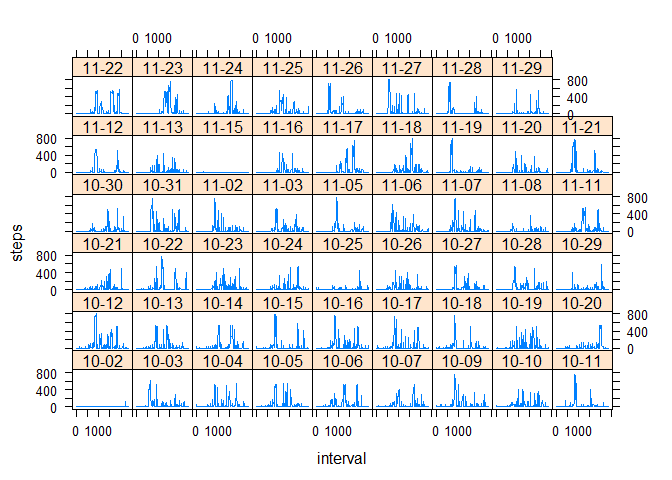
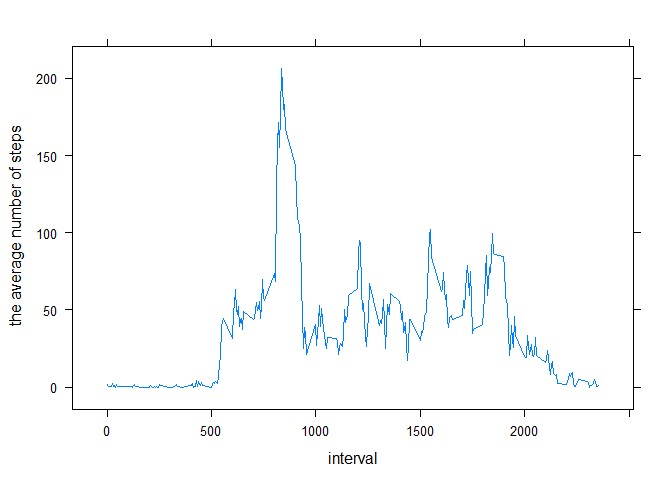
add the report of median_every_day, add the histogram of every day total steps, update the plot of the 5-minute interval average number of steps, add the report the set of missing data to zero

Changed region(s): [[0.0, 0.0625, 0.9688, 0.9062], [0.4688, 0.9375, 0.5625, 0.9688]]

diff --git a/PA1_template.html b/PA1_template.html
@@ -64,6 +64,9 @@ img {
 </div>
 
 
+<blockquote>
+<p>load the library and set the global option, echo=TRUE and figure path</p>
+</blockquote>
 <pre class="r"><code>library(knitr)
 library(dplyr)</code></pre>
 <pre><code>## 
@@ -82,27 +85,38 @@ opts_chunk$set(echo=TRUE,fig.path=&quot;.\\figure\\&quot;)</code></pre>
 <h2>Loading and preprocessing the data</h2>
 <pre class="r"><code>setwd(&quot;F:\\coursera\\Reproducible Research\\Peer_Assessment_1\\RepData_PeerAssessment1&quot;)
 zipfile &lt;- unzip(&quot;activity.zip&quot;)
-alldata &lt;- read.csv(zipfile)
-clean_data &lt;- na.omit(alldata)</code></pre>
+alldata &lt;- read.csv(zipfile)     ###read the data
+clean_data &lt;- na.omit(alldata)   ###omit the missing data</code></pre>
 </div>
 <div id="what-is-mean-total-number-of-steps-taken-per-day" class="section level2">
 <h2>What is mean total number of steps taken per day?</h2>
-<pre class="r"><code>date_group &lt;- group_by(clean_data,date)
+<pre class="r"><code>###group the data by date and sum the steps for every day
+date_group &lt;- group_by(clean_data,date)     
 out_date_group &lt;- summarize(date_group,sum(steps))
 mean_every_day &lt;- mean(out_date_group$`sum(steps)`)
-print(mean_every_day,type=&quot;html&quot;)</code></pre>
-<pre><code>## [1] 10766.19</code></pre>
+median_every_day &lt;- median(out_date_group$`sum(steps)`)
+histogram(out_date_group$`sum(steps)`,xlab=&quot;every day total steps&quot;)</code></pre>
[1 lines of base64/hex data omitted]
+<pre class="r"><code>#print(mean_every_day,type=&quot;html&quot;)
+sprintf(&quot;mean_every_day=%.1f,median_every_day=%.1f&quot;,mean_every_day,median_every_day)</code></pre>
+<pre><code>## [1] &quot;mean_every_day=10766.2,median_every_day=10765.0&quot;</code></pre>
 </div>
 <div id="what-is-the-average-daily-activity-pattern" class="section level2">
 <h2>What is the average daily activity pattern?</h2>
-<pre class="r"><code>xyplot(steps ~ interval|format(as.Date(date),&quot;%m-%d&quot;),data=clean_data,type = &quot;l&quot;)</code></pre>
[1 lines of base64/hex data omitted]
+<pre class="r"><code>#xyplot(steps ~ interval|format(as.Date(date),&quot;%m-%d&quot;),data=clean_data,type = &quot;l&quot;)
+sec_clean_data_interval_group &lt;- group_by(clean_data,interval)
+sec_clean_out_interval_group &lt;- summarize(sec_clean_data_interval_group ,mean(steps)  )
+xyplot(`mean(steps)`  ~ interval,data=sec_clean_out_interval_group ,type = &quot;l&quot;,ylab=&quot; the average number of steps&quot;)</code></pre>
[1 lines of base64/hex data omitted]
+<pre class="r"><code>sprintf(&quot; the 5-minute interval that, on average, the maximum number of steps=%.1f&quot;,max(sec_clean_out_interval_group$`mean(steps)`))</code></pre>
+<pre><code>## [1] &quot; the 5-minute interval that, on average, the maximum number of steps=206.2&quot;</code></pre>
 </div>
 <div id="imputing-missing-values" class="section level2">
 <h2>Imputing missing values</h2>
 <pre class="r"><code>NaData &lt;- alldata[which(is.na(alldata)),]
-NARowNum  &lt;- nrow(NaData)
+NARowNum  &lt;- nrow(NaData)    ###get the missing data row num 
 ReplaceNaAllData &lt;- alldata
+####set the missing data is zero
 ReplaceNaAllData[is.na(ReplaceNaAllData )] &lt;- 0
 all_date_group &lt;-  group_by(ReplaceNaAllData,date)
 all_out_date_group &lt;- summarize(all_date_group ,sum(steps )  )
@@ -110,12 +124,14 @@ histogram(all_out_date_group$`sum(steps)`,xlab=&quot;total number of steps taken
[1 lines of base64/hex data omitted]
 <pre class="r"><code>mean_replace_na_steps &lt;- mean(all_out_date_group$`sum(steps)`)
 median_replace_na_steps &lt;- median(all_out_date_group$`sum(steps)`)
-sprintf(&quot;NARowNum=%d,mean=%.1f,median=%.1f&quot;,NARowNum ,mean_replace_na_steps,median_replace_na_steps)</code></pre>
-<pre><code>## [1] &quot;NARowNum=2304,mean=9354.2,median=10395.0&quot;</code></pre>
+sprintf(&quot;NARowNum=%d.set the missing data to zero,then the mean=%.1f and median=%.1f&quot;,NARowNum ,mean_replace_na_steps,median_replace_na_steps)</code></pre>
+<pre><code>## [1] &quot;NARowNum=2304.set the missing data to zero,then the mean=9354.2 and median=10395.0&quot;</code></pre>
 </div>
 <div id="are-there-differences-in-activity-patterns-between-weekdays-and-weekends" class="section level2">
 <h2>Are there differences in activity patterns between weekdays and weekends?</h2>
 <pre class="r"><code>week_all_na_data &lt;- transform(ReplaceNaAllData,Week=weekdays(as.Date(date)))
+
+#####set the date by weekday and weekend
 levels(week_all_na_data$Week )[levels(week_all_na_data$Week) %in%  c(&quot;星期六&quot;,&quot;星期日&quot;)]   &lt;- &quot;weekend&quot;
 levels(week_all_na_data$Week )[levels(week_all_na_data$Week) %in%  c(&quot;星期一&quot;,&quot;星期二&quot;,&quot;星期三&quot;,&quot;星期四&quot;,&quot;星期五&quot;)]   &lt;- &quot;weekday&quot;
 week_all_date_group &lt;-  group_by(week_all_na_data,interval,Week)

diff --git a/PA1_template.md b/PA1_template.md
@@ -1,6 +1,7 @@
 # Reproducible Research: Peer Assessment 1
 
 
+> load the library and set the global option, echo=TRUE and figure path
 
 
 ```r
@@ -32,40 +33,61 @@ opts_chunk$set(echo=TRUE,fig.path=".\\figure\\")
 ```r
 setwd("F:\\coursera\\Reproducible Research\\Peer_Assessment_1\\RepData_PeerAssessment1")
 zipfile <- unzip("activity.zip")
-alldata <- read.csv(zipfile)
-clean_data <- na.omit(alldata)
+alldata <- read.csv(zipfile)     ###read the data
+clean_data <- na.omit(alldata)   ###omit the missing data
 ```
 
 
 ## What is mean total number of steps taken per day?
 
 ```r
-date_group <- group_by(clean_data,date)
+###group the data by date and sum the steps for every day
+date_group <- group_by(clean_data,date)     
 out_date_group <- summarize(date_group,sum(steps))
 mean_every_day <- mean(out_date_group$`sum(steps)`)
-print(mean_every_day,type="html")
+median_every_day <- median(out_date_group$`sum(steps)`)
+histogram(out_date_group$`sum(steps)`,xlab="every day total steps")
+```
+
+![](.\figure\unnamed-chunk-2-1.png) 
+
+```r
+#print(mean_every_day,type="html")
+sprintf("mean_every_day=%.1f,median_every_day=%.1f",mean_every_day,median_every_day)
 ```
 
 ```
-## [1] 10766.19
+## [1] "mean_every_day=10766.2,median_every_day=10765.0"
 ```
 
 
 ## What is the average daily activity pattern?
 
 ```r
-xyplot(steps ~ interval|format(as.Date(date),"%m-%d"),data=clean_data,type = "l")
+#xyplot(steps ~ interval|format(as.Date(date),"%m-%d"),data=clean_data,type = "l")
+sec_clean_data_interval_group <- group_by(clean_data,interval)
+sec_clean_out_interval_group <- summarize(sec_clean_data_interval_group ,mean(steps)  )
+xyplot(`mean(steps)`  ~ interval,data=sec_clean_out_interval_group ,type = "l",ylab=" the average number of steps")
 ```
 
 ![](.\figure\unnamed-chunk-3-1.png) 
+
+```r
+sprintf(" the 5-minute interval that, on average, the maximum number of steps=%.1f",max(sec_clean_out_interval_group$`mean(steps)`))
+```
+
+```
+## [1] " the 5-minute interval that, on average, the maximum number of steps=206.2"
+```
 
 
 ## Imputing missing values
 
 ```r
 NaData <- alldata[which(is.na(alldata)),]
-NARowNum  <- nrow(NaData)
+NARowNum  <- nrow(NaData)    ###get the missing data row num 
 ReplaceNaAllData <- alldata
+####set the missing data is zero
 ReplaceNaAllData[is.na(ReplaceNaAllData )] <- 0
 all_date_group <-  group_by(ReplaceNaAllData,date)
 all_out_date_group <- summarize(all_date_group ,sum(steps )  )
@@ -77,11 +99,11 @@ histogram(all_out_date_group$`sum(steps)`,xlab="total number of steps taken each
 ```r
 mean_replace_na_steps <- mean(all_out_date_group$`sum(steps)`)
 median_replace_na_steps <- median(all_out_date_group$`sum(steps)`)
-sprintf("NARowNum=%d,mean=%.1f,median=%.1f",NARowNum ,mean_replace_na_steps,median_replace_na_steps)
+sprintf("NARowNum=%d.set the missing data to zero,then the mean=%.1f and median=%.1f",NARowNum ,mean_replace_na_steps,median_replace_na_steps)
 ```
 
 ```
-## [1] "NARowNum=2304,mean=9354.2,median=10395.0"
+## [1] "NARowNum=2304.set the missing data to zero,then the mean=9354.2 and median=10395.0"
 ```
 
 
@@ -89,6 +111,8 @@ sprintf("NARowNum=%d,mean=%.1f,median=%.1f",NARowNum ,mean_replace_na_steps,medi
 
 ```r
 week_all_na_data <- transform(ReplaceNaAllData,Week=weekdays(as.Date(date)))
+
+#####set the date by weekday and weekend
 levels(week_all_na_data$Week )[levels(week_all_na_data$Week) %in%  c("星期六","星期日")]   <- "weekend"
 levels(week_all_na_data$Week )[levels(week_all_na_data$Week) %in%  c("星期一","星期二","星期三","星期四","星期五")]   <- "weekday"
 week_all_date_group <-  group_by(week_all_na_data,interval,Week)
